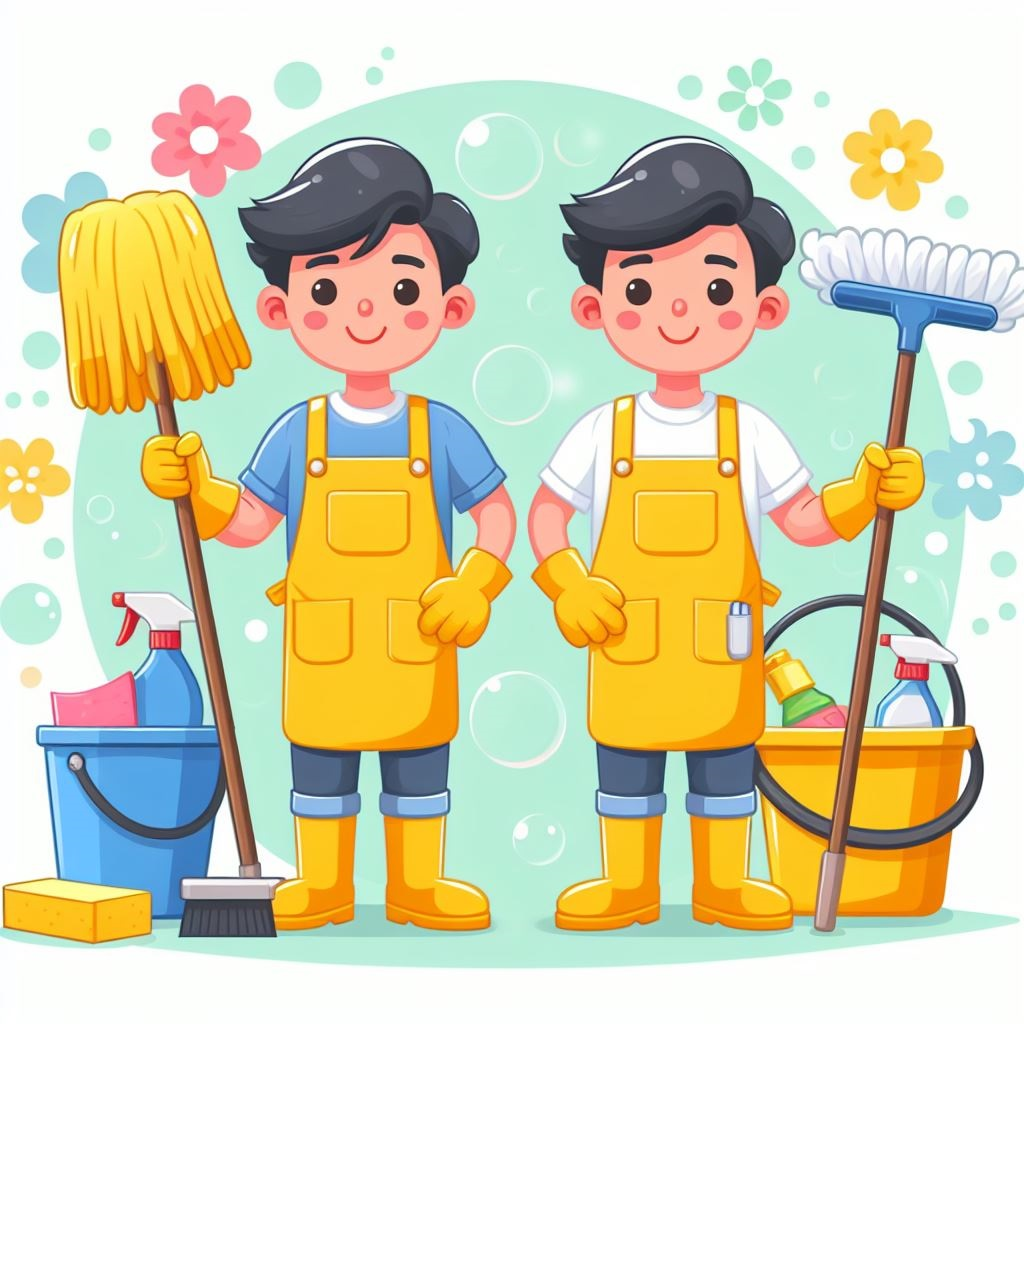
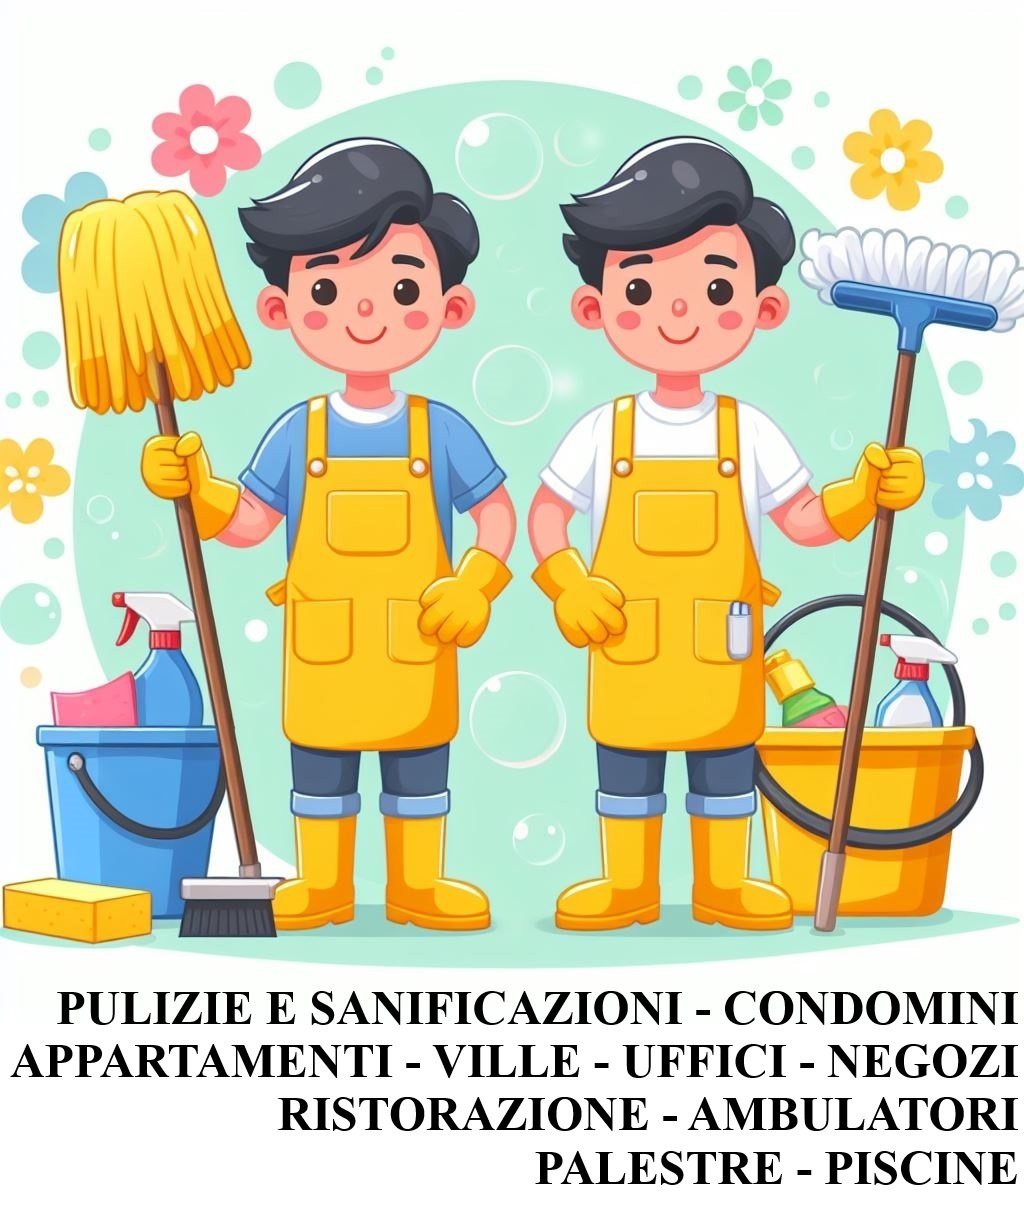
Added picture in home page

diff --git a/src/components/Home.js b/src/components/Home.js
@@ -1,7 +1,7 @@
 import React from "react";
-import { Link } from "react-router-dom";
 import { FaEnvelope, FaFont, FaSearchLocation } from "react-icons/fa";
 import { IconContext } from "react-icons";
+
 export default function Home() {
   const boxStyle = {
     width: "250px",
@@ -15,27 +15,66 @@ export default function Home() {
     justifyContent: "center",
     textAlign: "center",
     marginBottom: "20px",
-    // Add margin between boxes
     marginRight: "30px",
     marginLeft: "45px",
   };
 
   return (
     <div className="container-fluid d-flex justify-content-center align-items-center flex-column">
-      <Link className="nav-link" to="/">
-        Civil and industrial cleaning. Painting, clearing of cellars and
-        warehouses. Move.
-      </Link>
+      <div
+        className="row"
+        style={{
+          marginTop: "20px",
+          marginBottom: "30px",
+        }}
+      >
+        <div className="col-lg-6">
+          <img
+            src="cleaning.jpg"
+            alt="cleaning"
+            className="img-fluid"
+            style={{ width: "100%", height: "auto" }}
+          />
+        </div>
+        <div className="col-lg-6">
+          <img
+            src="delivery.jpg"
+            alt="delivery"
+            className="img-fluid"
+            style={{ width: "100%", height: "auto" }}
+          />
+        </div>
+      </div>
+      <div
+        className="row"
+        style={{
+          marginTop: "20px",
+          marginBottom: "30px",
+          fontSize: "30px",
+          fontWeight: "bold",
+          alignItems: "center",
+          justifyContent: "center",
+          textAlign: "center",
+        }}
+      >
+        <div className="text-success">OPERATIVI 24 ORE SU 24</div>
+        <div className="text-success">PREVENTIVI GRATUITI</div>
+        <div className="text-success">Cell./WhatsApp 3294123984</div>
+        <div className="text-success">Chiamaci ora</div>
+        <div className="text-success">RAHMAN TAREQUR</div>
+      </div>
       <div className="row">
-        <div className="col-lg-4 col-md-6 ">
+        <div className="col-lg-4 col-md-6 mb-3">
           <div className="bg-success" style={boxStyle}>
             <IconContext.Provider
               value={{ className: "shared-class", size: 70 }}
             >
               <>
-                <FaFont onClick={() => {
-                window.location.href = "/About";
-              }}/>
+                <FaFont
+                  onClick={() => {
+                    window.location.href = "/About";
+                  }}
+                />
                 <p>About</p>
               </>
             </IconContext.Provider>
@@ -51,15 +90,17 @@ export default function Home() {
           </div>
         </div>
 
-        <div className="col-lg-4 col-md-6">
+        <div className="col-lg-4 col-md-6 mb-3">
           <div className="bg-success" style={boxStyle}>
             <IconContext.Provider
               value={{ className: "shared-class", size: 70 }}
             >
               <>
-                <FaEnvelope onClick={() => {
-                window.location.href = "/Contacts";
-              }}/>
+                <FaEnvelope
+                  onClick={() => {
+                    window.location.href = "/Contacts";
+                  }}
+                />
                 <p>Contacts</p>
               </>
             </IconContext.Provider>
@@ -75,15 +116,17 @@ export default function Home() {
           </div>
         </div>
 
-        <div className="col-lg-4 col-md-6">
+        <div className="col-lg-4 col-md-6 mb-3">
           <div className="bg-success" style={boxStyle}>
             <IconContext.Provider
               value={{ className: "shared-class", size: 70 }}
             >
               <>
-                <FaSearchLocation onClick={() => {
-                window.location.href = "/Location";
-              }}/>
+                <FaSearchLocation
+                  onClick={() => {
+                    window.location.href = "/Location";
+                  }}
+                />
                 <p>Location </p>
               </>
             </IconContext.Provider>

diff --git a/src/components/Contacts.js b/src/components/Contacts.js
@@ -2,7 +2,6 @@ import React, { useRef } from "react";
 import emailjs from "@emailjs/browser";
 import styled from "styled-components";
 
-
 const Contact = () => {
   const form = useRef();
 
@@ -29,35 +28,28 @@ const Contact = () => {
 
   return (
     <>
-   <div class='info'>
-          <div class='infoHeader'>
-            Info/Bio
-          </div>
-    Mr Pathan Sas
-    Via del Pilastro 15-6, 40127 Bologna (Bologna)
-    Telephone: +39 3292121210
-    VAT number: 02823441205
-    NETWORK: 148895.reteimprese.org
-    SECTOR: Ecology and Thermotechnics
-    CATEGORY: Cleaning Companies
-    Cookie Preferences
-          </div> 
-    
-    <StyledContactForm>
-      <form ref={form} onSubmit={sendEmail}>
-        <label>Name</label>
-        <input type="text" name="user_name" />
-        <label>Email</label>
-        <input type="email" name="user_email" />
-        <label>Phone</label>
-        <input type="phone" name="user_phone" />
-        <label>Message</label>
-        <textarea name="message" />
-        <input type="submit" value="Send" />
-      </form>
-    </StyledContactForm>
+      <div class="info">
+        <div class="infoHeader">Info/Bio</div>
+        Mr Pathan Sas Via del Pilastro 15-6, 40127 Bologna (Bologna) Telephone:
+        +39 3292121210 VAT number: 02823441205 NETWORK: 148895.reteimprese.org
+        SECTOR: Ecology and Thermotechnics CATEGORY: Cleaning Companies Cookie
+        Preferences
+      </div>
+
+      <StyledContactForm>
+        <form ref={form} onSubmit={sendEmail}>
+          <label>Name</label>
+          <input type="text" name="user_name" />
+          <label>Email</label>
+          <input type="email" name="user_email" />
+          <label>Phone</label>
+          <input type="phone" name="user_phone" />
+          <label>Message</label>
+          <textarea name="message" />
+          <input type="submit" value="INVIA" />
+        </form>
+      </StyledContactForm>
     </>
-    
   );
 };
 

diff --git a/src/Navbar.js b/src/Navbar.js
@@ -41,17 +41,17 @@ export default function Navbar() {
             </li>
             <li className="nav-item">
               <Link className="nav-link fs-5 fw-bold text-white" to="/About">
-                About
+                Chi Siamo
               </Link>
             </li>
             <li className="nav-item">
               <Link className="nav-link fs-5 fw-bold text-white" to="/Contacts">
-                Contacts
+                Contatti
               </Link>
             </li>
             <li className="nav-item">
               <Link className="nav-link fs-5 fw-bold text-white" to="/Location">
-                Location
+                Posizione
               </Link>
             </li>
           </ul>
